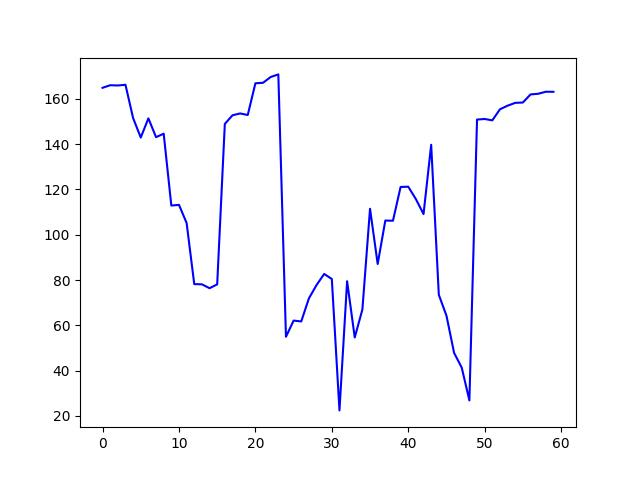
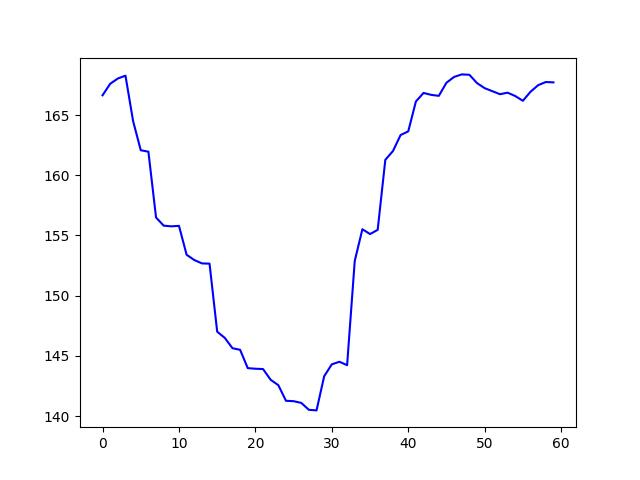
Get the y-values, plots, and margins calculated for all metrics

diff --git a/margin.py b/margin.py
@@ -15,9 +15,9 @@ import seaborn as sns
 import os
 
 # filename = "./videos/JJ1.mp4"
-filenames = ["./videos/JJ1.mp4", "./videos/StephCurry.mp4"]
+# filenames = ["./videos/JJ1.mp4", "./videos/StephCurry.mp4"]
 path = './videos'
-# filenames = os.listdir(path)
+filenames = os.listdir(path)
 
 
 
@@ -43,10 +43,15 @@ right_knee_angles = []
 images = []
 y_values =[]
 for filename in filenames:
+    filename = './videos/' + filename
     # clear list 
     images = []
     left_elbow_angles.clear()
     right_elbow_angles.clear()
+    right_shoulder_angles.clear()
+    right_wrist_angles.clear()
+    right_hip_angles.clear()
+    right_knee_angles.clear()
     times = []
     time = 0
     time_for_seaborn= []    
@@ -177,45 +182,68 @@ for filename in filenames:
     # samples are indices that will be filtered out
     samples = np.random.choice(np.arange(len(times)), size=len(times) - 60, replace=False) # want to fix the number of frames at 60
     # print(samples)
-    sampled_left_elbow_angles = []        
-    for i, angle in enumerate(left_elbow_angles):
-        if i not in samples:
-            # print(i)
-            sampled_left_elbow_angles.append(angle)            
-    sampled_times = np.arange(60) # mostly 30 fps and most given videos are of 2secs
-    # print(sampled_left_elbow_angles)
-    sampled_left_elbow_angles = np.array(sampled_left_elbow_angles)
-    print(f'After sampling: {len(sampled_times)}')
-    plt.plot(sampled_times, sampled_left_elbow_angles, color='b', label = 'sampled_left_elbow')
-    plt.savefig(f"./output-images/{filename[9:-4]}'s sampled-unsmooth-angle-vs-time.jpg")
+    tracked_metrics = {
+        'right_elbow_angles': right_elbow_angles,
+        'right_shoulder_angles': right_shoulder_angles,
+        'right_wrist_angles': right_wrist_angles,
+        'right_hip_angles': right_hip_angles,
+        'right_knee_angles': right_knee_angles,
+    }
+    sampled_metrics = {
+        'sampled_right_elbow_angles': [],
+        'sampled_right_shoulder_angles': [],
+        'sampled_right_wrist_angles': [],
+        'sampled_right_hip_angles': [],
+        'sampled_right_knee_angles': [],
+    }
+    metrics_y_values = {
+        'sampled_right_elbow_angles_y': [],
+        'sampled_right_shoulder_angles_y': [],
+        'sampled_right_wrist_angles_y': [],
+        'sampled_right_hip_angles_y': [],
+        'sampled_right_knee_angles_y': [],
+    }
+    sampled_left_elbow_angles = []
+    for metric in tracked_metrics:
+        y_values = []
+        for i, angle in enumerate(tracked_metrics[metric]):
+            if i not in samples:
+                # print(i)
+                sampled_metrics['sampled_' + metric].append(angle)
+        sampled_times = np.arange(60) # mostly 30 fps and most given videos are of 2secs
+        # print(sampled_left_elbow_angles)
+        sampled_metrics['sampled_' + metric] = np.array(sampled_metrics['sampled_' + metric])
+        print(f'After sampling: {len(sampled_times)}')
+        plt.plot(sampled_times, sampled_metrics['sampled_' + metric], color='b', label = 'sampled_' + metric)
+        plt.savefig(f"./output-images/{filename[9:-4]}'s sampled-unsmooth-angle-vs-time.jpg")
     ###### sampling #####
     
     ##### smooth a curve #####
     # cubic_interpolation_model = interp1d(times, left_elbow_angles, kind = "cubic")
-    cubic_interpolation_model = interp1d(sampled_times, sampled_left_elbow_angles)
+        cubic_interpolation_model = interp1d(sampled_times, sampled_metrics['sampled_' + metric])
 
-    # times = np.array(times)
-    sampled_times = np.array(sampled_times)
-    # X_ = np.linspace(times.min(), times.max(), 50)
-    # Y_ = cubic_interpolation_model(times)
-    # Y_ = cubic_interpolation_model(sampled_times)
+        # times = np.array(times)
+        sampled_times = np.array(sampled_times)
+        # X_ = np.linspace(times.min(), times.max(), 50)
+        # Y_ = cubic_interpolation_model(times)
+        # Y_ = cubic_interpolation_model(sampled_times)
     
     # apply smoothing filter   
     # Y_ = savgol_filter(Y_, len(times), 50)
-    Y_ = sampled_left_elbow_angles
-    Y_ = savgol_filter(Y_, window_length=30, polyorder=7)
+        Y_ = sampled_metrics['sampled_' + metric]
+        Y_ = savgol_filter(Y_, window_length=30, polyorder=7)
     
     # for margin graph
-    y = -Y_
+        y = -Y_
     # add list y of each video 
-    print(f'{filename} video frames: {len(y)}')
-    y_values += list(y)
+        print(f'{filename} video frames: {len(y)}')
+        metrics_y_values['sampled_' + metric + '_y'] += list(y)
     ##### smooth a curve #####
     
     ## plot each angle
     # plot left angles
     # plt.plot(times,Y_, color='r', label='smooth')
-    plt.plot(sampled_times,Y_, color='r', label='smooth')
+        plt.plot(sampled_times,Y_, color='r', label='smooth')
     # plt.plot(times, left_shoulder_angles, color='r', label='left_shoulder')
     # plt.plot(times, left_wrist_angles, color='g', label = 'left wrist')
     # plt.plot(times, left_hip_angles, color='y', label = 'left hip')
@@ -228,43 +256,47 @@ for filename in filenames:
     # plt.plot(times, right_hip_angles, color='#FFF01F', label = 'right hip')
     # plt.plot(times, right_knee_angles, color='#A020F0', label = 'right knee')
 
-    plt.xlabel('time')
-    plt.ylabel('angle')
-    plt.legend(title=f"{filename[9:-4]}'s angle vs time")
-    plt.savefig(f"./output-images/{filename[9:-4]}'s sampled smoothed angle-vs-time.jpg")
-    plt.show(block=False)
-    plt.close()
+        plt.xlabel('time')
+        plt.ylabel('angle')
+        plt.legend(title=f"{filename[9:-4]}'s angle vs time")
+        plt.savefig(f"./output-images/{filename[9:-4]}'s sampled smoothed " + metric[6:-7] + "angle-vs-time.jpg")
+        plt.show(block=False)
+        plt.close()
     
 
     
 
 
 # visualize margin   
-sns.set()
-y_values = np.negative(y_values)
-print(f'y_values length: {len(y_values)}')
-y_values = np.array(y_values).reshape(2, -1)
-y_means = np.mean(y_values, axis=0)
-y_std = np.std(y_values, axis=0)
-y_diff = y_values[0] - y_values[1]
+for metric in metrics_y_values:
+    sns.set()
+    y_values = np.negative(metrics_y_values[metric])
+    print(f'y_values length: {len(y_values)}')
+    y_values = np.array(y_values).reshape(len(filenames), -1)
+    y_means = np.mean(y_values, axis=0)
+    y_std = np.std(y_values, axis=0)
+    y_diff = y_values[0] - y_values[1]
 
-# save data
-with open(r'./data/elbowMargin', 'w') as fp:
-    fp.writelines(y_values)
-
-
-print("y_std.shape: {}".format(y_std.shape))
-print(f'y_values.shape: {y_means.shape}')
-print("y_values: {}".format(y_values))
-print("y_diff: {}".format(y_diff))
+    # save data
+    np.savetxt('./data/' + metric[8:-9], y_values)
+    # with open(r'./data/' + metric[6:-7], 'w') as fp:
+    #     fp.writelines(y_values)
 
 
-x_axis = np.arange(len(y_means))   
-plt.plot(x_axis, y_means, 'b-', label='y_value')
-plt.fill_between(x_axis, y_means-y_std, y_means+y_std, color = 'b', alpha=0.2)
+    print("y_std.shape: {}".format(y_std.shape))
+    print(f'y_values.shape: {y_means.shape}')
+    print("y_values: {}".format(y_values))
+    print("y_diff: {}".format(y_diff))
 
-plt.legend(title='margin')
-plt.ioff()
-# plt.savefig
-plt.show(block=False)
-plt.savefig("./output-images/margin.jpg")
+
+    x_axis = np.arange(len(y_means))   
+    plt.plot(x_axis, y_means, 'b-', label='y_value')
+    plt.fill_between(x_axis, y_means-y_std, y_means+y_std, color = 'b', alpha=0.2)
+    plt.ylim([0, 180])
+
+    plt.legend(title='margin')
+    plt.ioff()
+    # plt.savefig
+    plt.show(block=False)
+    plt.savefig("./output-images/" + metric[8:-9] + "-margin.jpg")
+    plt.close()
